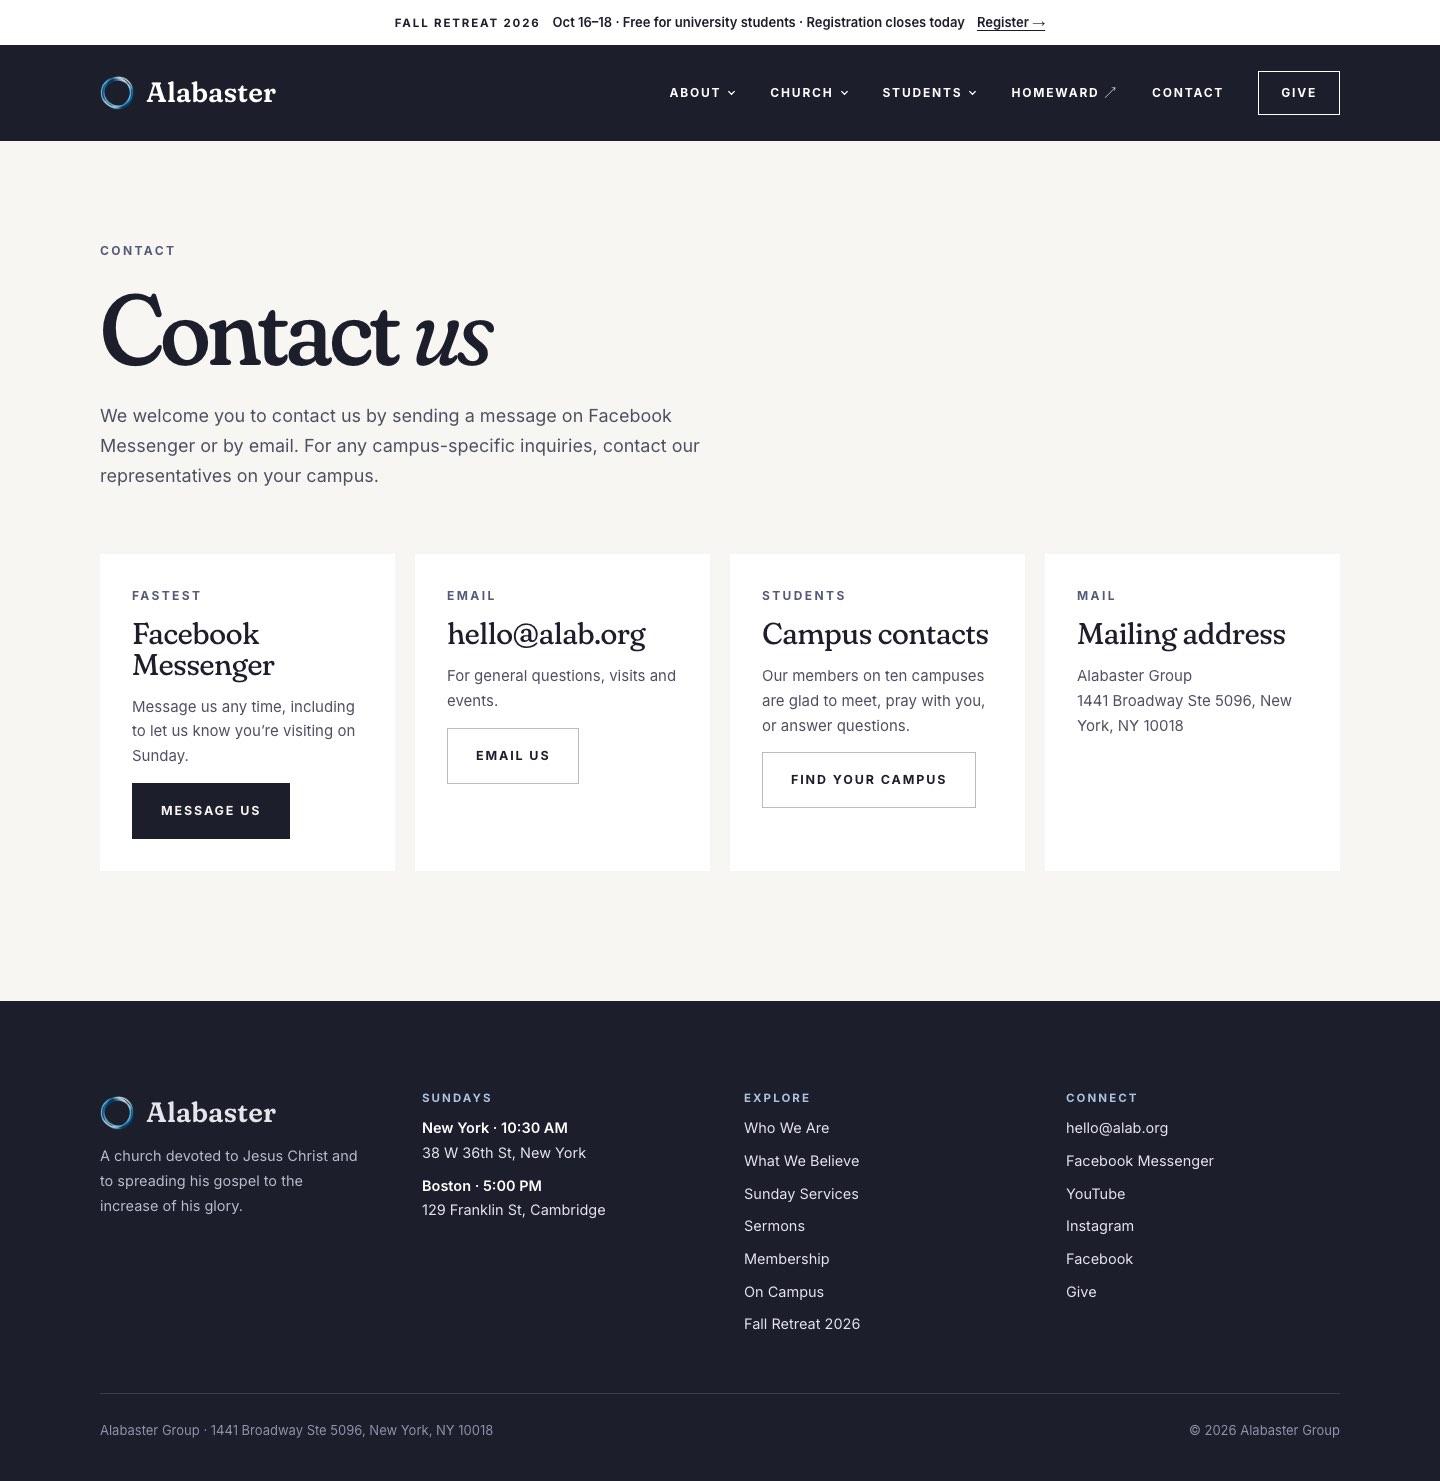
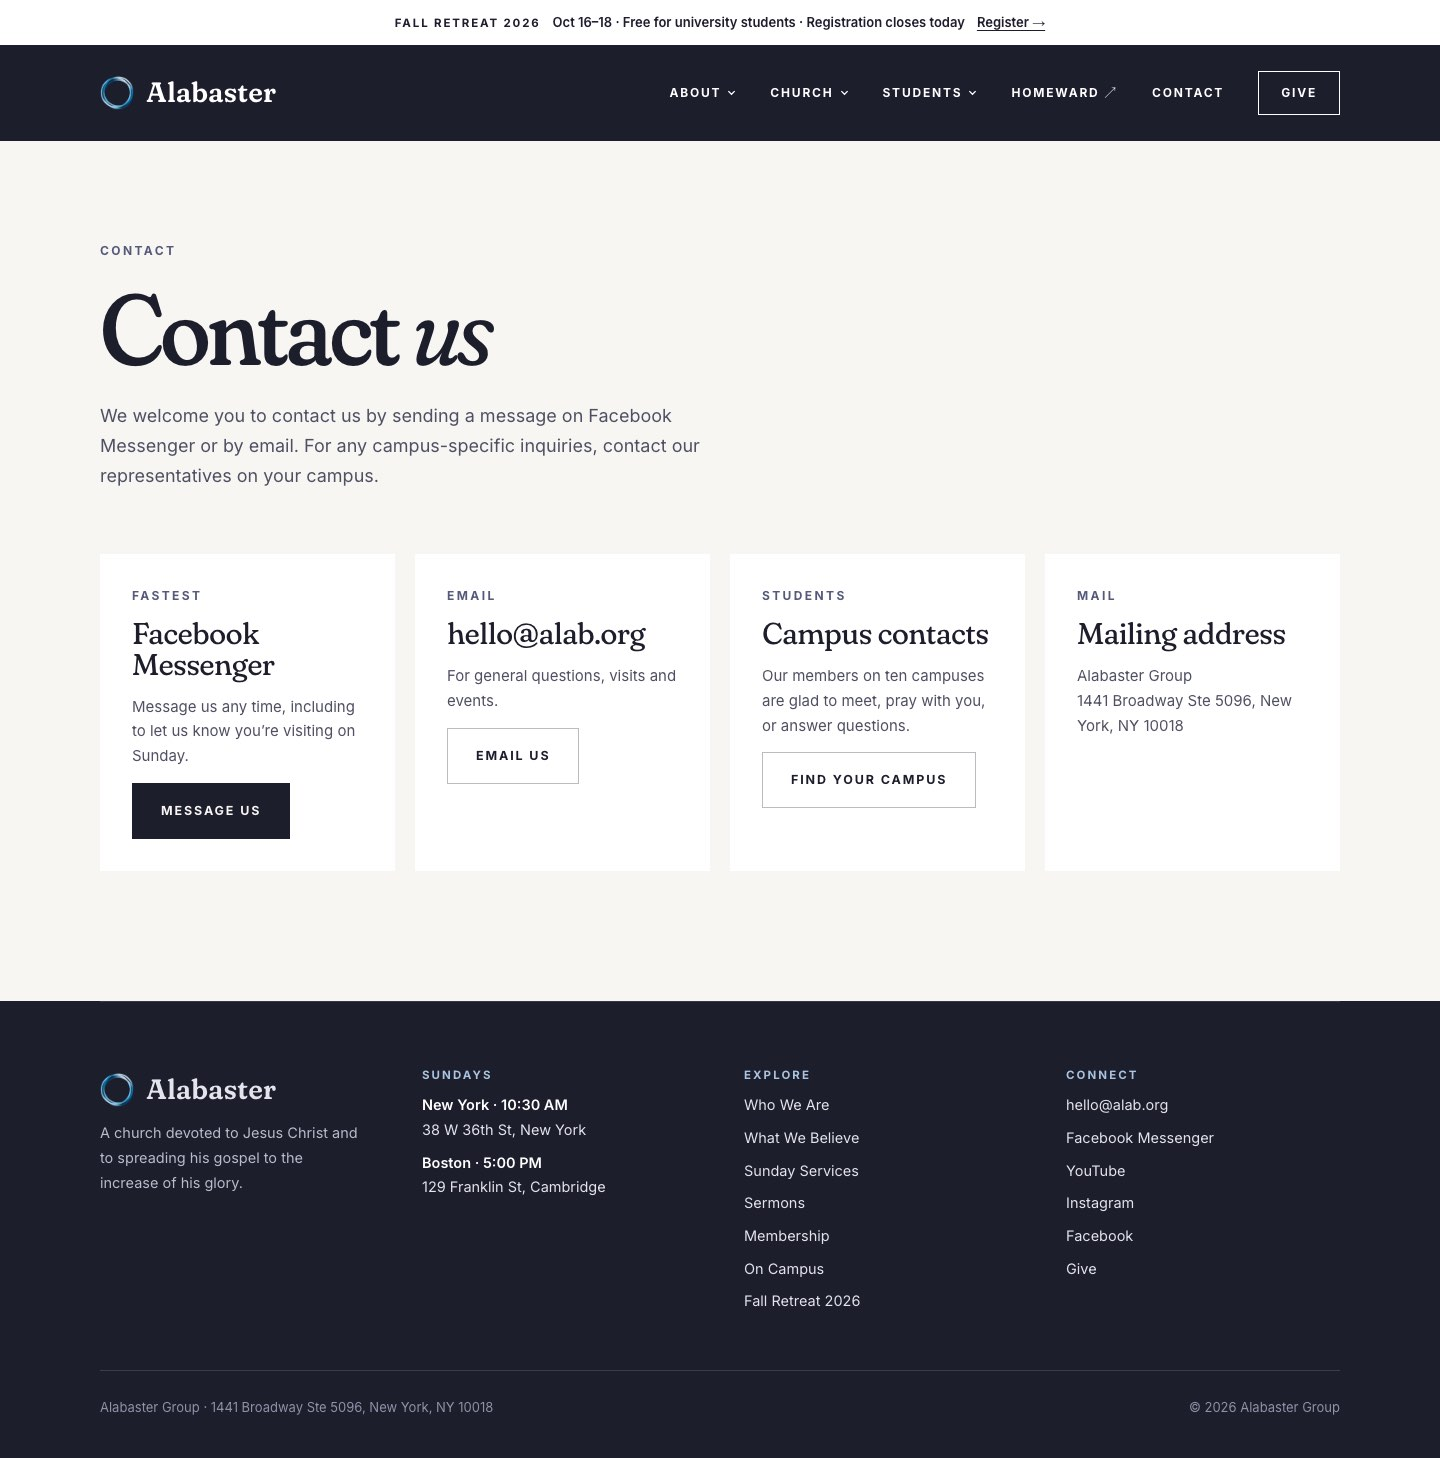
Contain sermon panel, tighten Fall Retreat lockup, add footer rule
- Sermon art panel sits inside the page margins at 5/12 width
- FALL RETREAT title optically aligned; dates and place sit on an orange
  rule matching the title width, split by a thin divider
- Light rule above the footer and less dead space after the retreat
- Test plan screenshots refreshed in docs/test-plan/

diff --git a/public/css/site.css b/public/css/site.css
@@ -360,3 +360,37 @@ p { margin: 0; }
 .live__cta { font-size: 12px; font-weight: 700; letter-spacing: 0.15em; text-transform: uppercase; white-space: nowrap; }
 @media (prefers-reduced-motion: reduce) { .live__dot { animation: none; } }
 @media (max-width: 900px) { .live { padding: 18px 22px; } .live__cta { font-size: 11px; } }
+
+/* ---------- Polish: retreat lockup, sermons contained, footer rule ---------- */
+.retreat { padding-block: 40px 104px; }
+.retreat__lockup { display: inline-flex; flex-direction: column; align-self: flex-start; gap: 18px; }
+.retreat__title { margin-left: -0.045em; line-height: 0.84; }
+.retreat__when {
+  display: flex; justify-content: space-between; align-items: center; gap: 20px;
+  padding-top: 16px; border-top: 3px solid var(--orange);
+}
+.retreat__when::before { content: none; }
+.retreat__when span { font-family: var(--condensed); font-size: 34px; line-height: 1; text-transform: uppercase; letter-spacing: 0.01em; }
+.retreat__when span + span { padding-left: 20px; border-left: 1px solid rgba(247, 246, 243, 0.35); }
+.schools { max-width: 520px; }
+
+.sermons { max-width: var(--max); margin: 0 auto; padding-inline: var(--gutter); grid-template-columns: minmax(0, 5fr) minmax(0, 7fr); }
+.sermons__art { min-height: 520px; }
+.sermons__art .rings { width: 820px; height: 820px; right: -300px; bottom: -320px; }
+.sermons__art .eyebrow { left: 32px; top: 30px; }
+.sermons__body { padding: 40px 0 40px 72px; max-width: none; }
+
+.site-footer .wrap { padding-top: 64px; border-top: 1px solid rgba(247, 246, 243, 0.12); }
+
+@media (max-width: 900px) {
+  .sermons { grid-template-columns: 1fr; }
+  .sermons__art { min-height: 300px; }
+  .sermons__art .rings { width: 540px; height: 540px; right: -190px; bottom: -210px; }
+  .sermons__body { padding: 30px 0 10px; }
+  .retreat { padding-block: 32px 64px; }
+  .retreat__when span { font-size: 26px; }
+  .site-footer .wrap { padding-top: 48px; }
+}
+.site-footer .wrap { border-top: 0; padding-top: 0; }
+.footer-grid { border-top: 1px solid rgba(247, 246, 243, 0.12); padding-top: 64px; }
+@media (max-width: 900px) { .footer-grid { padding-top: 44px; } }

diff --git a/src/partials/retreat-feature.html b/src/partials/retreat-feature.html
@@ -1,8 +1,10 @@
 <div class="wrap retreat">
 <div class="stack" style="gap: 28px;">
 <span class="retreat__label">Upcoming · <span data-deadline="{{site.retreat.deadline}}">{{site.retreat.deadlineText}}</span></span>
+<div class="retreat__lockup">
 <h2 class="retreat__title">Fall<br>Retreat</h2>
-<div class="retreat__when"><span>{{site.retreat.dates}}<br>{{site.retreat.place}}</span></div>
+<div class="retreat__when"><span>{{site.retreat.dates}}</span><span>{{site.retreat.place}}</span></div>
+</div>
 <p class="retreat__tagline">For those searching for <span class="orange">God.</span></p>
 <div class="mono-list">Transportation · Housing · Meals<br><span class="orange">Included for free</span></div>
 <div class="btn-row"><a class="btn btn--orange" href="/fr-26#register">Register now</a><a class="btn btn--outline-light" href="/fr-26#schedule">Schedule &amp; FAQs</a></div>

diff --git a/docs/test-plan/README.md b/docs/test-plan/README.md
@@ -1,6 +1,6 @@
 # Test plan
 
-Generated 2026-09-30 22:53 by `scripts/test_plan.py` from a fresh build.
+Generated 2026-10-01 00:02 by `scripts/test_plan.py` from a fresh build.
 
 ## Automated checks
 
